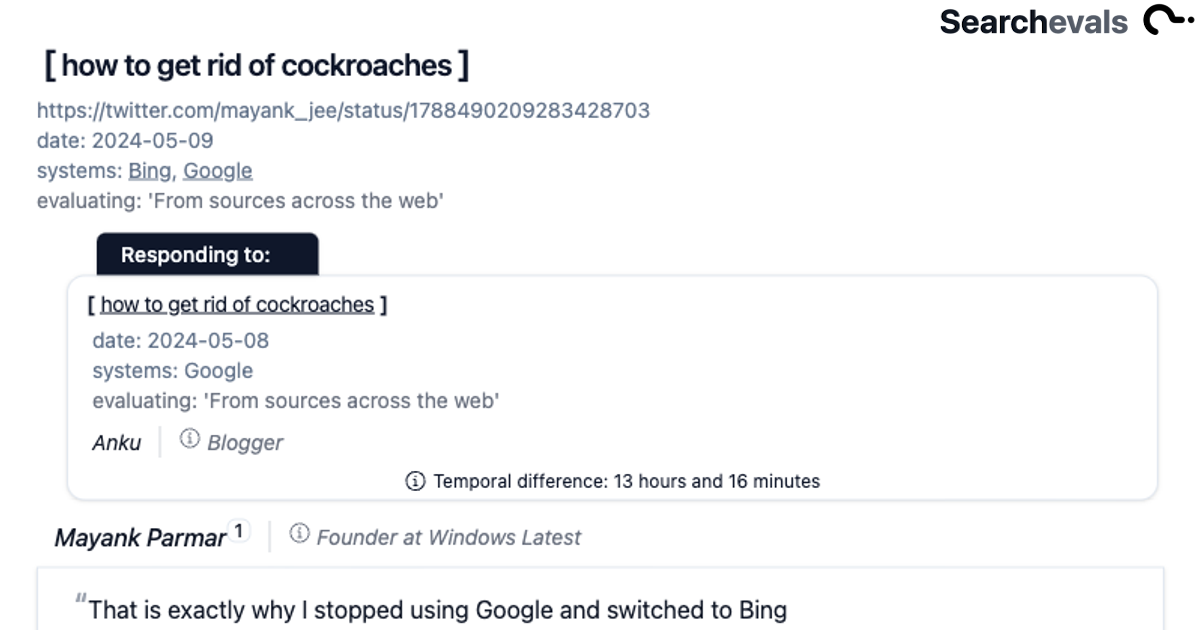
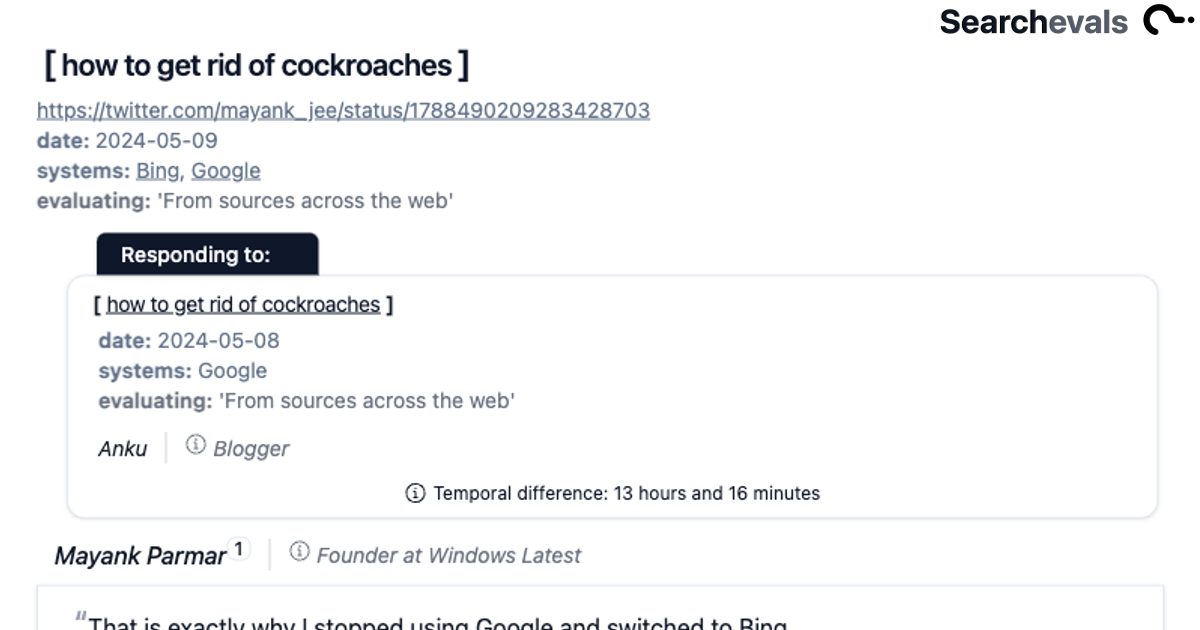
add evals

diff --git a/src/components/EvalCard.tsx b/src/components/EvalCard.tsx
@@ -205,13 +205,13 @@ const EvalCard: React.FC<EvalCardProps> = ({ evalItemId }) => {
             )}
             </CardTitle>
           <CardDescription>
-            <a href={evalItem.url} target="_blank" rel="noopener noreferrer" className="w-7/8 truncate block">{evalItem.url}</a>
-              <span className="text-sm">date: {evalItem.date}</span><br></br>
+            <a href={evalItem.url} target="_blank" rel="noopener noreferrer" className="w-7/8 truncate block arrLinkFlat">{evalItem.url}</a>
+              <span className="text-sm"><span className="font-bold">date: </span>{evalItem.date}</span><br></br>
               {evalItem.methodology && (<>
-              <span className="text-sm">methodology: <a className="underline" href={evalItem.methodology.url}>{evalItem.methodology.in_text}</a></span><br></br>
+                <span className="text-sm">methodology: <a className="underline arrLinkFlat" href={evalItem.methodology.url}>{evalItem.methodology.in_text}</a></span><br></br>
               {evalItem.methodology && (
                 <>
-                  <span className="text-sm">methodology: <a className="underline" href={evalItem.methodology.url}>{evalItem.methodology.in_text}</a></span><br></br>
+                  <span className="text-sm">methodology: <a className="underline arrLinkFlat" href={evalItem.methodology.url}>{evalItem.methodology.in_text}</a></span><br></br>
                 </>
               )}
               </>

diff --git a/src/components/eval-card-elements/EvaluatedSystems.tsx b/src/components/eval-card-elements/EvaluatedSystems.tsx
@@ -16,7 +16,7 @@ export const EvaluatedSystems: React.FC<{ evalItemID: string, systemIDs: string[
             const systemLink = system.search_link; // Directly access the searchLink property of the system object
             return (
                 <span key={system.id}> {/* Use system.id for a unique key */}
-                    <a className="underline" target="_blank" rel="noopener noreferrer" href={systemLink.replace('%s', encodedQuery)}>
+                    <a className="underline arrLinkFlat" target="_blank" rel="noopener noreferrer" href={systemLink.replace('%s', encodedQuery)}>
                         {system.name}
                     </a>
                     {index < filteredSystems.length - 1 ? ', ' : ''} {/* Use filteredSystems.length */}

diff --git a/src/components/ImageDisplay.tsx b/src/components/ImageDisplay.tsx
@@ -26,7 +26,7 @@ const ImageDisplay: React.FC<ImageDisplayProps> = ({ images, type, className="",
     };
     
     return (
-        <div className={`${type === 'solo' || images.length <= 1 ? '' : 'grid grid-cols-2'} ${className}`}>
+        <div className={`${type === 'solo' || images.length <= 1 ? '' : 'grid grid-cols-2 gap-4'} ${className}`}>
             {images.map((image, index) => (
                 <div key={index}>
                     {(image.annotated || image.extension_modified) && showWarnings && (

diff --git a/src/styles/globals.css b/src/styles/globals.css
@@ -117,6 +117,16 @@
         /* Hover background color blue-100 */
     }
 
+    .arrLinkFlat {
+        text-decoration: underline;
+    }
+
+    .arrLinkFlat:hover {
+        background-color: rgb(219, 234, 254);
+        /* Hover background color blue-100 */
+    }
+
+
     .two-lines-height-limit {
         display: -webkit-box;
         -webkit-line-clamp: 2;

diff --git a/src/components/Footer.tsx b/src/components/Footer.tsx
@@ -2,7 +2,7 @@ import { GitHubLogoIcon, TwitterLogoIcon, LinkedInLogoIcon } from '@radix-ui/rea
 import { Button } from "./ui/button";
 import { Input } from "./ui/input";
 
-const lastUpdated = "2024-05-13T18:41:20.426Z";
+const lastUpdated = "2024-05-13T19:08:52.089Z";
 
 const Footer: React.FC = () => {
   return (
